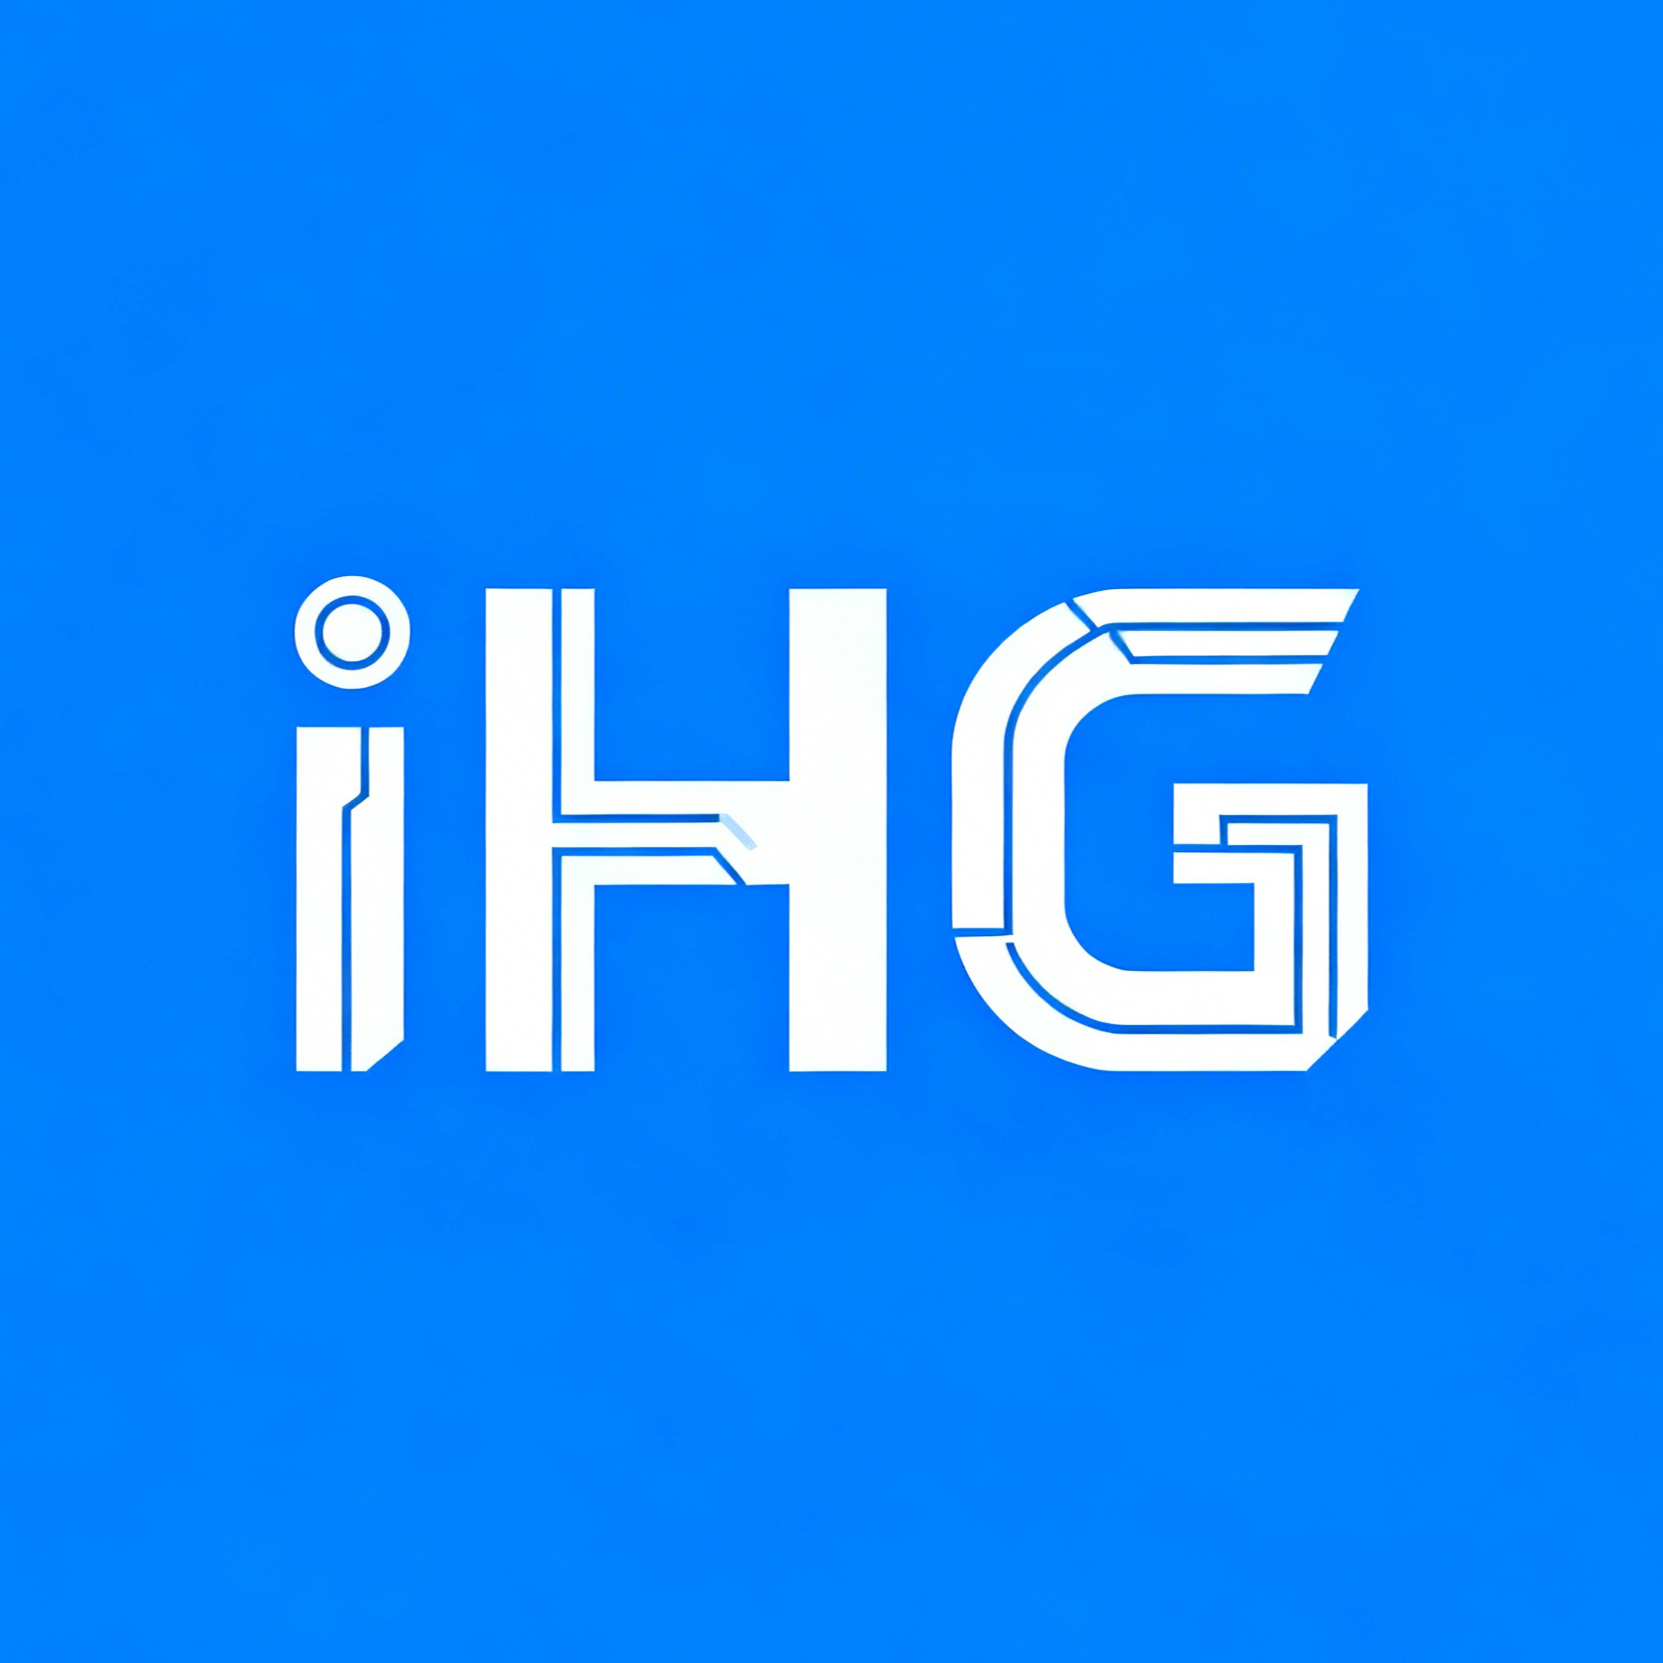
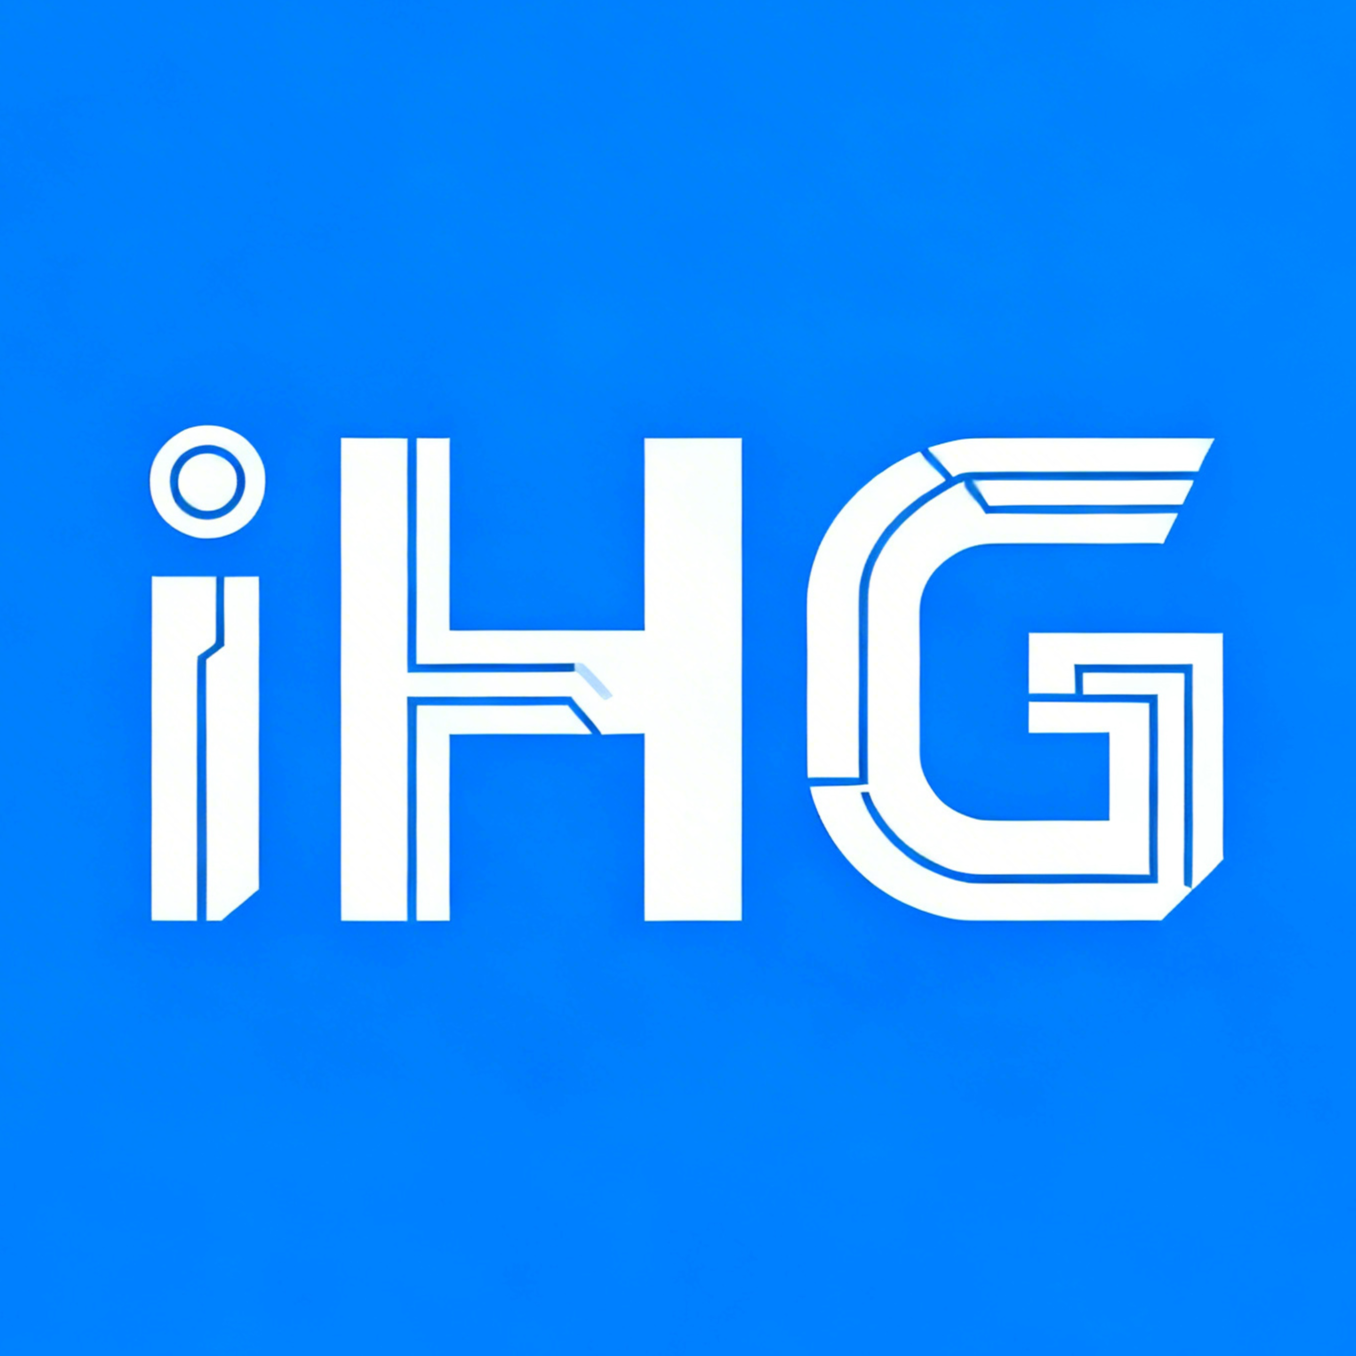
fix: 统计数据初始化与更新频率优化
- 新增启动时统计数据初始化，确保当天有数据
- 统计任务改为每小时执行一次（原每天23:55）
- 更新logo图片

Changed region(s): [[0.4646, 0.3097, 0.9292, 0.6814], [0.0929, 0.3097, 0.4956, 0.6814]]

diff --git a/scheduler.py b/scheduler.py
@@ -99,6 +99,49 @@ def daily_stats_task():
         print(f"[统计错误] {e}")
 
 
+def init_daily_stats():
+    """初始化当日统计数据（启动时调用）"""
+    try:
+        today = datetime.now().strftime('%Y-%m-%d')
+        
+        # 检查今天是否已有统计数据
+        existing = storage.get_daily_stats(today)
+        if existing:
+            print(f"[统计初始化] {today} 已有统计数据，跳过")
+            return
+        
+        # 尝试从今日记录计算
+        records = storage.get_today_records()
+        if records:
+            unique_devices = set(r['mac'] for r in records)
+            total_upload = max(r['upload_bytes'] for r in records)
+            total_download = max(r['download_bytes'] for r in records)
+            max_connections = max(r['connections'] for r in records)
+            
+            storage.save_daily_stats(
+                date=today,
+                total_upload=total_upload,
+                total_download=total_download,
+                device_count=len(unique_devices),
+                max_connections=max_connections,
+                peak_device_count=len(unique_devices)
+            )
+            print(f"[统计初始化] {today} 数据已从现有记录生成")
+        else:
+            # 没有记录时，创建空的初始数据
+            storage.save_daily_stats(
+                date=today,
+                total_upload=0,
+                total_download=0,
+                device_count=0,
+                max_connections=0,
+                peak_device_count=0
+            )
+            print(f"[统计初始化] {today} 创建初始空数据")
+    except Exception as e:
+        print(f"[统计初始化错误] {e}")
+
+
 def format_bytes(bytes_val):
     """格式化字节数"""
     if not bytes_val:
@@ -128,8 +171,11 @@ def start_scheduler():
     hour, minute = map(int, report_time.split(':'))
     scheduler.add_job(daily_report_task, CronTrigger(hour=hour, minute=minute), id='daily_report')
     
-    # 每日统计任务（每天 23:55）
-    scheduler.add_job(daily_stats_task, CronTrigger(hour=23, minute=55), id='daily_stats')
+    # 统计任务（每小时执行一次）
+    scheduler.add_job(daily_stats_task, CronTrigger(minute=55), id='daily_stats')
+    
+    # 初始化当日统计数据
+    init_daily_stats()
     
     scheduler.start()
-    print(f"[调度] 采集间隔: {interval}秒, 保活间隔: {keepalive_interval}秒, 日报时间: {report_time}")
+    print(f"[调度] 采集间隔: {interval}秒, 保活间隔: {keepalive_interval}秒, 日报时间: {report_time}, 统计间隔: 每小时")
